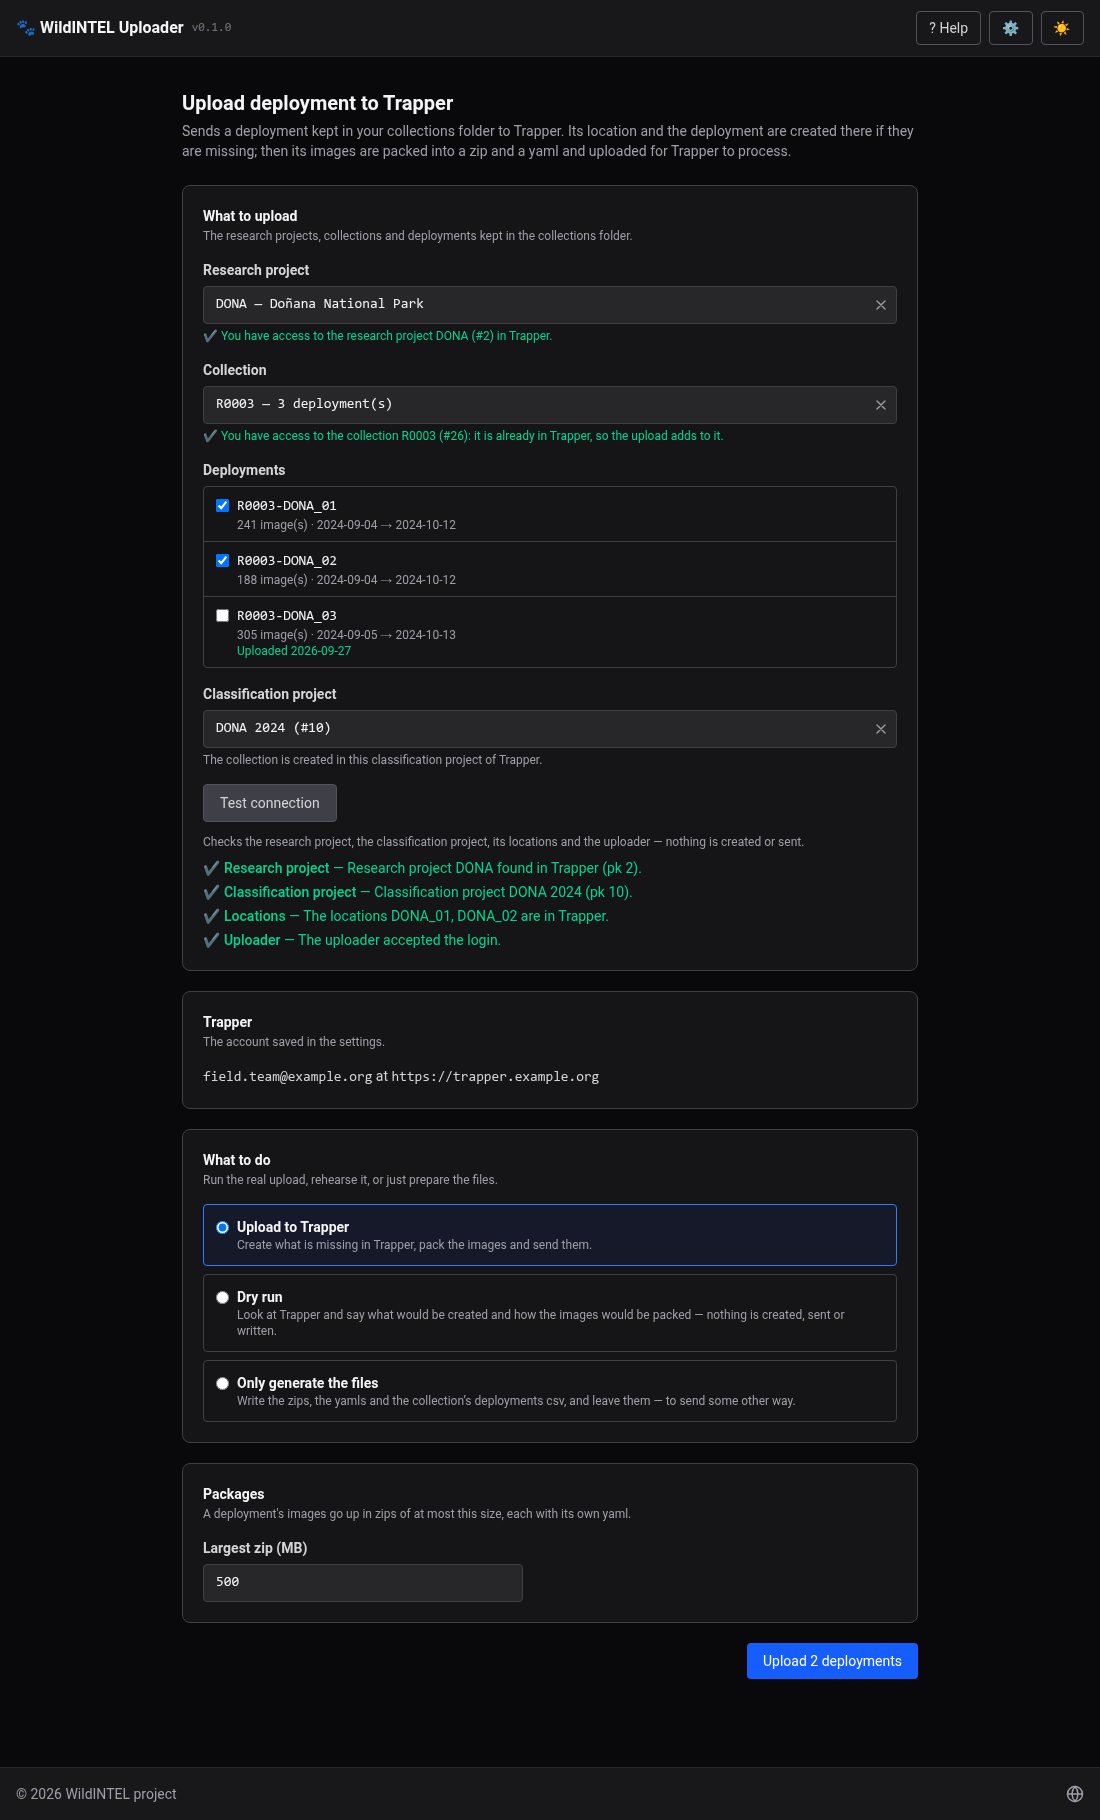
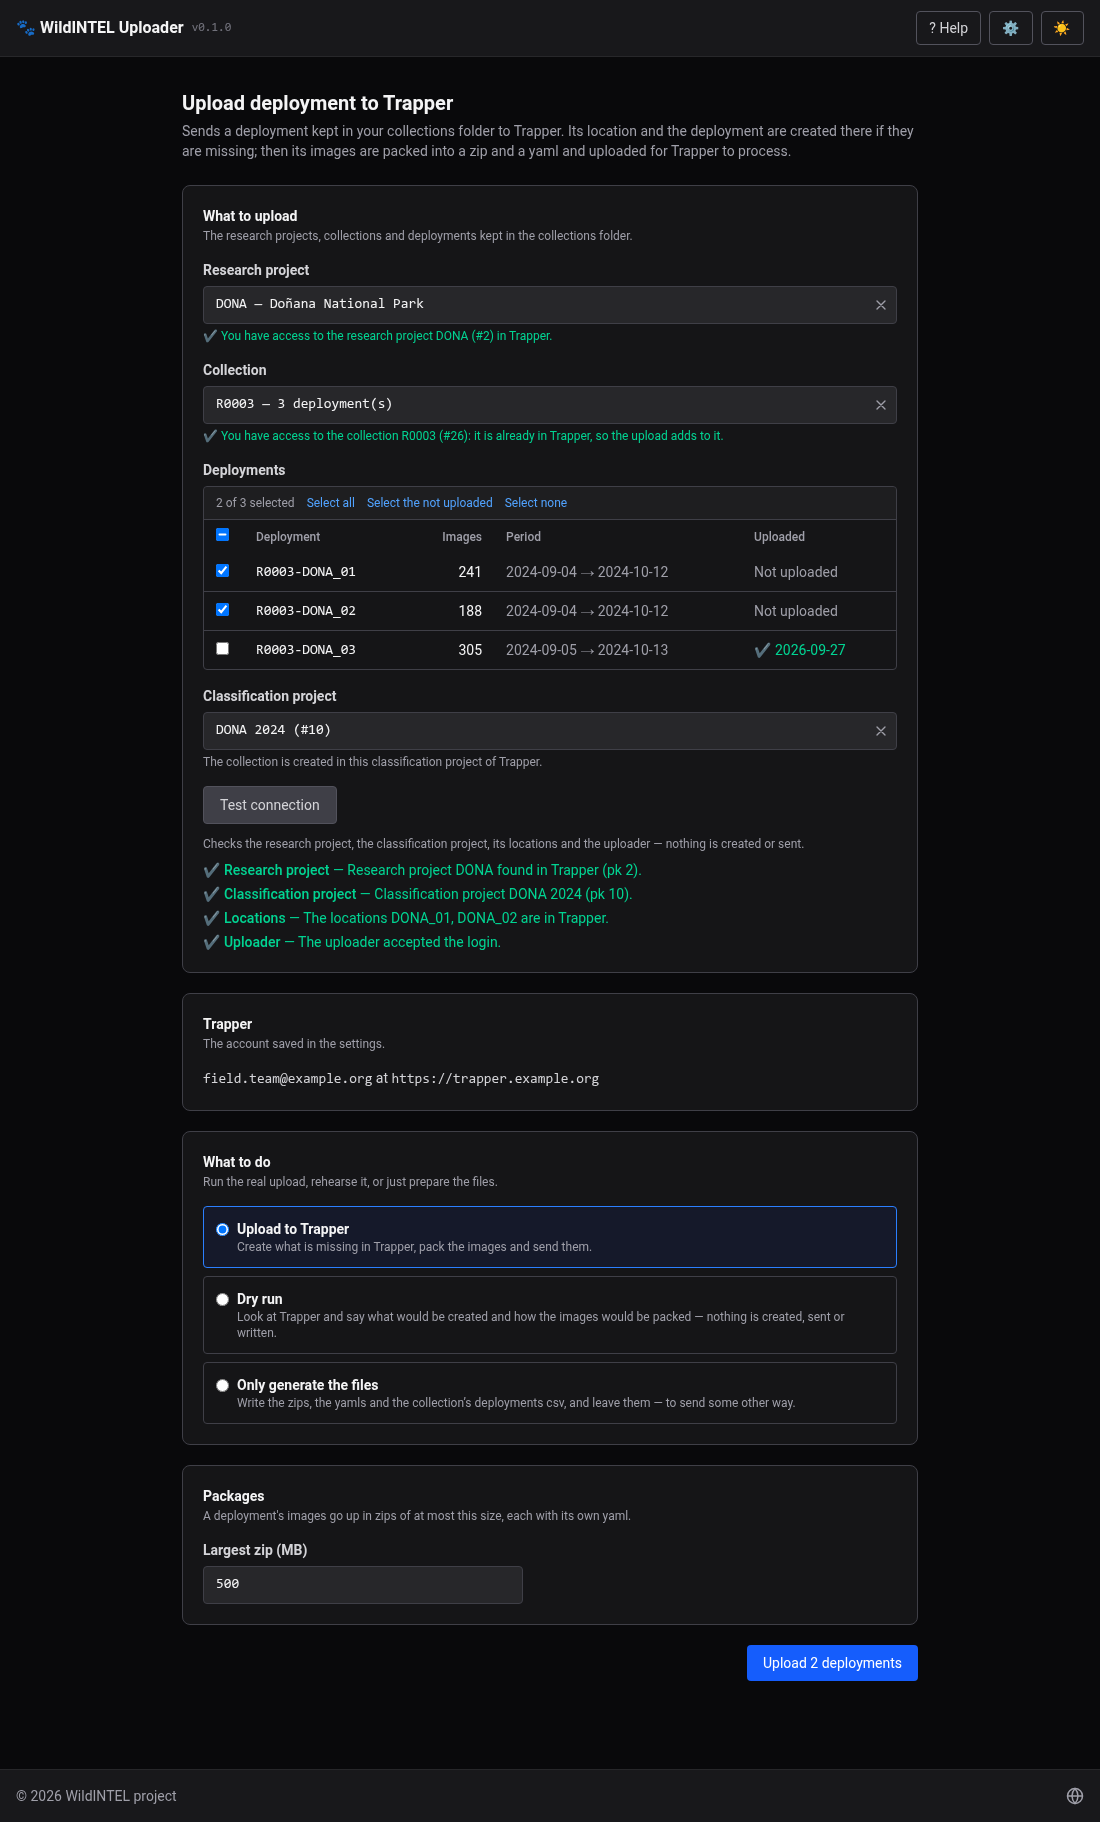
Upload: the deployments as a table, with select all, select the not uploaded and select none

diff --git a/frontend/src/pages/UploadDeploymentPage.tsx b/frontend/src/pages/UploadDeploymentPage.tsx
@@ -194,6 +194,7 @@ export default function UploadDeploymentPage({ initial }: Props = {}) {
   const classificationValid = classificationValue === null || (Number.isInteger(classificationValue) && classificationValue >= 1)
   // The yaml needs one: with an account it is the one picked (or the only one); offline, the pk typed in.
   const classificationReady = classificationValue !== null && classificationValid
+  const selectable = (collection?.deployments ?? []).filter(canUpload)
   const toUpload = (collection?.deployments ?? []).filter((d) => selected.has(d.deployment_id) && canUpload(d))
 
   /** Whether the account can reach the research project, its locations and the uploader — before sending anything. */
@@ -270,26 +271,58 @@ export default function UploadDeploymentPage({ initial }: Props = {}) {
           <div>
             <p className={labelClass}>Deployments</p>
             {collection.deployments.length === 0 && <p className="text-sm text-zinc-500 dark:text-zinc-400">This collection has no deployments.</p>}
-            <ul className="divide-y divide-zinc-200 dark:divide-zinc-700 rounded border border-zinc-200 dark:border-zinc-700">
-              {collection.deployments.map((d) => (
-                <li key={d.deployment_id} className="px-3 py-2">
-                  <label className="flex items-start gap-2 text-sm cursor-pointer">
-                    <input type="checkbox" className="mt-1" aria-label={d.deployment_id} checked={selected.has(d.deployment_id) && canUpload(d)}
-                           disabled={!canUpload(d) || uploading} onChange={() => toggle(d.deployment_id)} />
-                    <span className="flex-1">
-                      <span className="font-mono text-zinc-900 dark:text-zinc-100">{d.deployment_id}</span>
-                      <span className="block text-xs text-zinc-500 dark:text-zinc-400">
-                        {d.images} image(s){d.start_date ? ` · ${d.start_date.slice(0, 10)} → ${(d.end_date ?? '').slice(0, 10)}` : ''}
-                      </span>
-                      {!d.preprocessed && (
-                        <span className="block text-xs text-red-600 dark:text-red-400">Not preprocessed — import it again through the wizard before uploading it.</span>
-                      )}
-                      {d.uploaded_at && <span className="block text-xs text-emerald-600 dark:text-emerald-400">Uploaded {d.uploaded_at.slice(0, 10)}</span>}
-                    </span>
-                  </label>
-                </li>
-              ))}
-            </ul>
+            {collection.deployments.length > 0 && (
+              <div className="overflow-x-auto rounded border border-zinc-200 dark:border-zinc-700">
+                <div className="flex items-center gap-3 flex-wrap px-3 py-2 text-xs border-b border-zinc-200 dark:border-zinc-700 bg-zinc-50 dark:bg-zinc-800/50">
+                  <span className="text-zinc-500 dark:text-zinc-400">{selectable.filter((d) => selected.has(d.deployment_id)).length} of {selectable.length} selected</span>
+                  <button type="button" className="text-blue-600 dark:text-blue-400 hover:underline disabled:opacity-50" disabled={uploading || selectable.length === 0}
+                          onClick={() => setSelected(new Set(selectable.map((d) => d.deployment_id)))}>Select all</button>
+                  <button type="button" className="text-blue-600 dark:text-blue-400 hover:underline disabled:opacity-50" disabled={uploading || selectable.every((d) => d.uploaded_at)}
+                          onClick={() => setSelected(new Set(selectable.filter((d) => !d.uploaded_at).map((d) => d.deployment_id)))}>Select the not uploaded</button>
+                  <button type="button" className="text-blue-600 dark:text-blue-400 hover:underline disabled:opacity-50" disabled={uploading || selected.size === 0}
+                          onClick={() => setSelected(new Set())}>Select none</button>
+                </div>
+                <table className="w-full text-sm">
+                  <thead>
+                    <tr className="text-left text-xs text-zinc-500 dark:text-zinc-400">
+                      <th scope="col" className="px-3 py-2 w-10">
+                        <input type="checkbox" aria-label="Select all deployments" disabled={uploading || selectable.length === 0}
+                               checked={selectable.length > 0 && selectable.every((d) => selected.has(d.deployment_id))}
+                               ref={(el) => { if (el) el.indeterminate = selectable.some((d) => selected.has(d.deployment_id)) && !selectable.every((d) => selected.has(d.deployment_id)) }}
+                               onChange={() => setSelected(selectable.every((d) => selected.has(d.deployment_id)) ? new Set() : new Set(selectable.map((d) => d.deployment_id)))} />
+                      </th>
+                      <th scope="col" className="px-3 py-2 font-medium">Deployment</th>
+                      <th scope="col" className="px-3 py-2 font-medium text-right">Images</th>
+                      <th scope="col" className="px-3 py-2 font-medium">Period</th>
+                      <th scope="col" className="px-3 py-2 font-medium">Uploaded</th>
+                    </tr>
+                  </thead>
+                  <tbody className="divide-y divide-zinc-200 dark:divide-zinc-700">
+                    {collection.deployments.map((d) => (
+                      <tr key={d.deployment_id}>
+                        <td className="px-3 py-2">
+                          <input type="checkbox" aria-label={d.deployment_id} checked={selected.has(d.deployment_id) && canUpload(d)}
+                                 disabled={!canUpload(d) || uploading} onChange={() => toggle(d.deployment_id)} />
+                        </td>
+                        <td className="px-3 py-2">
+                          <span className="font-mono text-zinc-900 dark:text-zinc-100">{d.deployment_id}</span>
+                          {!d.preprocessed && (
+                            <span className="block text-xs text-red-600 dark:text-red-400">Not preprocessed — import it again through the wizard before uploading it.</span>
+                          )}
+                        </td>
+                        <td className="px-3 py-2 text-right">{d.images}</td>
+                        <td className="px-3 py-2 whitespace-nowrap text-zinc-600 dark:text-zinc-400">{d.start_date ? `${d.start_date.slice(0, 10)} → ${(d.end_date ?? '').slice(0, 10)}` : '—'}</td>
+                        <td className="px-3 py-2 whitespace-nowrap">
+                          {d.uploaded_at
+                            ? <span className="text-emerald-600 dark:text-emerald-400">✔ {d.uploaded_at.slice(0, 10)}</span>
+                            : <span className="text-zinc-500 dark:text-zinc-400">Not uploaded</span>}
+                        </td>
+                      </tr>
+                    ))}
+                  </tbody>
+                </table>
+              </div>
+            )}
           </div>
         )}
         {collection && (

diff --git a/frontend/src/pages/UploadDeploymentPage.test.tsx b/frontend/src/pages/UploadDeploymentPage.test.tsx
@@ -113,7 +113,8 @@ describe('UploadDeploymentPage', () => {
     await pickCollection()
 
     expect(await screen.findByText('R0003-DONA_01')).toBeInTheDocument()
-    expect(screen.getAllByText(/120 image\(s\) · 2024-09-04 → 2024-11-04/).length).toBeGreaterThanOrEqual(1)
+    expect(screen.getAllByText('2024-09-04 → 2024-11-04').length).toBeGreaterThanOrEqual(1)
+    expect(screen.getAllByText('120').length).toBeGreaterThanOrEqual(1) // its images
   })
 
   it('picks the deployments still to send: preprocessed and not uploaded before', async () => {
@@ -137,7 +138,7 @@ describe('UploadDeploymentPage', () => {
   it('shows when a deployment was uploaded, which can still be chosen to send again', async () => {
     await pickCollection()
 
-    expect(await screen.findByText('Uploaded 2025-01-15')).toBeInTheDocument()
+    expect(await screen.findByText('✔ 2025-01-15')).toBeInTheDocument()
     const box = screen.getByRole('checkbox', { name: 'R0003-DONA_04' })
     expect(box).toBeEnabled()
     await userEvent.click(box)
@@ -215,7 +216,7 @@ describe('UploadDeploymentPage', () => {
       ? { ...c, deployments: c.deployments.map((d) => (d.deployment_id === 'R0003-DONA_01' ? { ...d, uploaded_at: '2026-10-01T08:00:00+00:00' } : d)) } : c) })
     await userEvent.click(await screen.findByRole('button', { name: 'Upload 2 deployments' }))
 
-    expect(await screen.findByText('Uploaded 2026-10-01')).toBeInTheDocument()
+    expect(await screen.findByText('✔ 2026-10-01')).toBeInTheDocument()
     expect(mockedApi.uploadCollections).toHaveBeenCalledTimes(2)
   })
 
@@ -351,6 +352,29 @@ describe('UploadDeploymentPage', () => {
       await userEvent.click(screen.getByRole('button', { name: 'Upload 2 deployments' }))
       await screen.findByText(/2 deployment\(s\) uploaded\./)
       expect(mockedApi.uploadDeployment.mock.calls[0][6]).toBe(8)
+    })
+  })
+
+  describe('choosing the deployments', () => {
+    it('selects all of them, or only the ones not uploaded yet, or none', async () => {
+      await pickCollection()
+      const ticked = () => ['01', '02', '03', '04'].filter((n) => (screen.getByRole('checkbox', { name: `R0003-DONA_${n}` }) as HTMLInputElement).checked)
+      await screen.findByText('2 of 3 selected') // 03 can't be uploaded at all
+
+      await userEvent.click(screen.getByRole('button', { name: 'Select all' }))
+      expect(ticked()).toEqual(['01', '02', '04'])
+      expect(screen.getByRole('checkbox', { name: 'Select all deployments' })).toBeChecked()
+
+      await userEvent.click(screen.getByRole('button', { name: 'Select the not uploaded' }))
+      expect(ticked()).toEqual(['01', '02'])
+
+      await userEvent.click(screen.getByRole('button', { name: 'Select none' }))
+      expect(ticked()).toEqual([])
+
+      await userEvent.click(screen.getByRole('checkbox', { name: 'Select all deployments' })) // the header's box does it too
+      expect(ticked()).toEqual(['01', '02', '04'])
+      await userEvent.click(screen.getByRole('checkbox', { name: 'Select all deployments' }))
+      expect(ticked()).toEqual([])
     })
   })
 

diff --git a/docs/user-manual-web.md b/docs/user-manual-web.md
@@ -457,8 +457,9 @@ wizard before uploading it", and can't be ticked.
 ### What to upload
 
 1. **Research project** — those kept in the collections folder.
-2. **Collection** — and under it its deployments, each with how many images, its dates, and
-   whether it was already uploaded. The ones left to send start ticked. As soon as the research project and the
+2. **Collection** — and under it a table of its deployments: how many images, its dates, and the day it was
+   uploaded, if it was (from its `upload.json`, a local note). The ones left to send start ticked; **Select all**, **Select the not uploaded**
+   and **Select none**, or the box in the table's header, change the choice. As soon as the research project and the
    collection are chosen, a message says whether **the account saved in the settings has access** to both in Trapper (and whether the
    collection is already there, so the upload adds to it, or the upload creates it).
 3. **Classification project** — the collection is created in one of Trapper's classification
